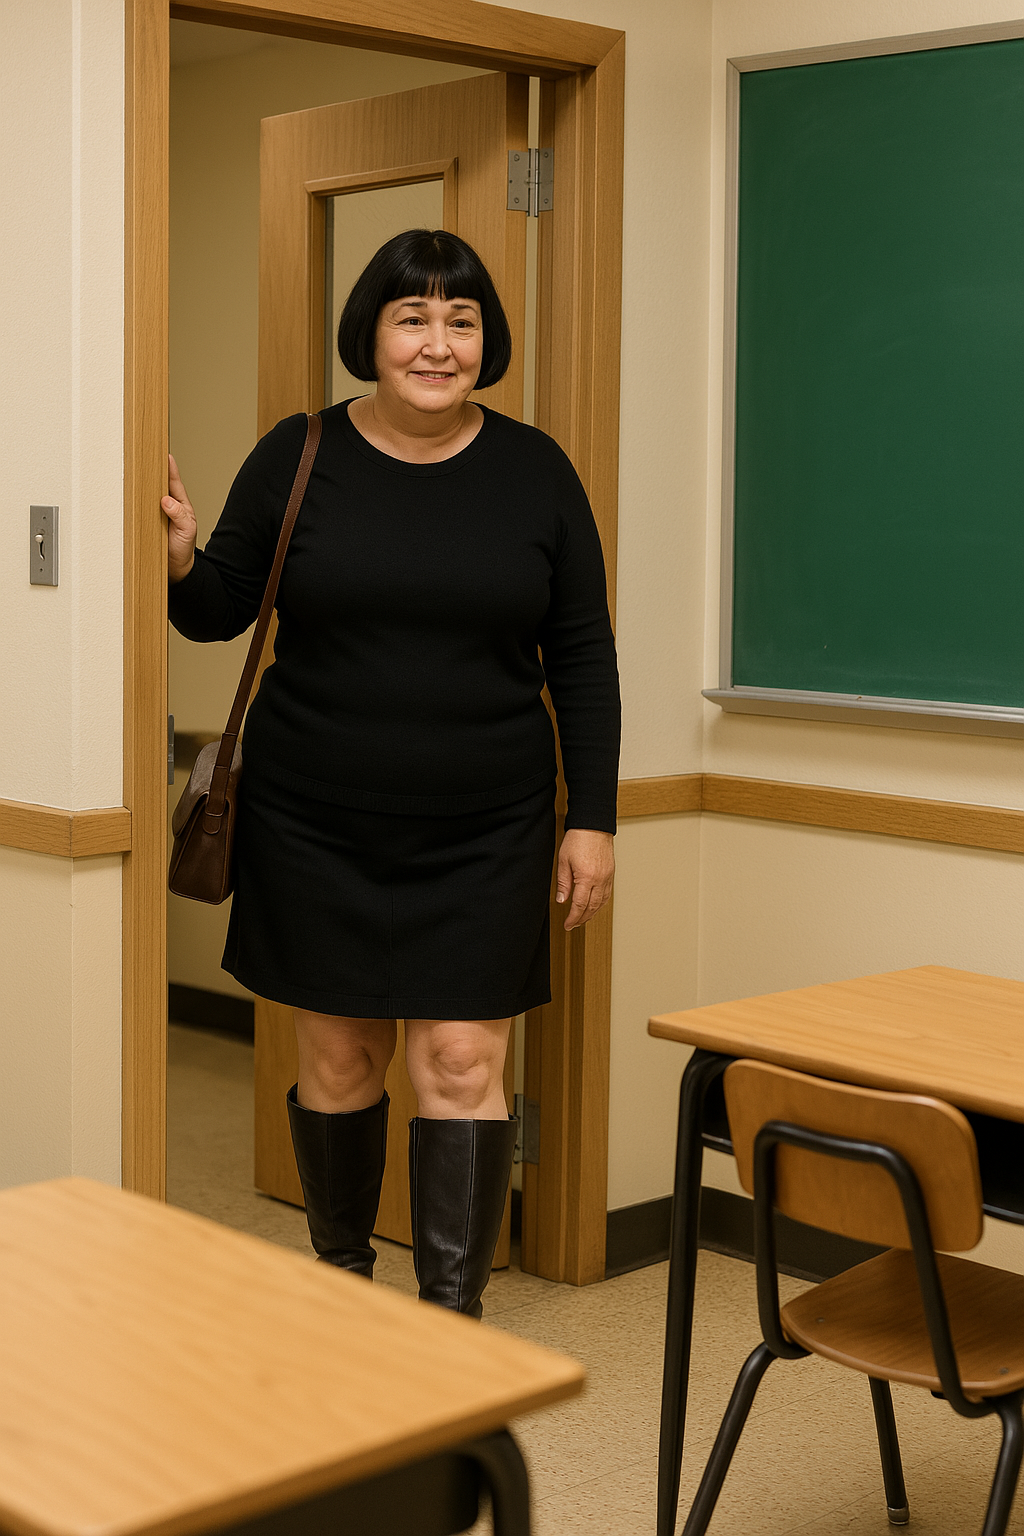
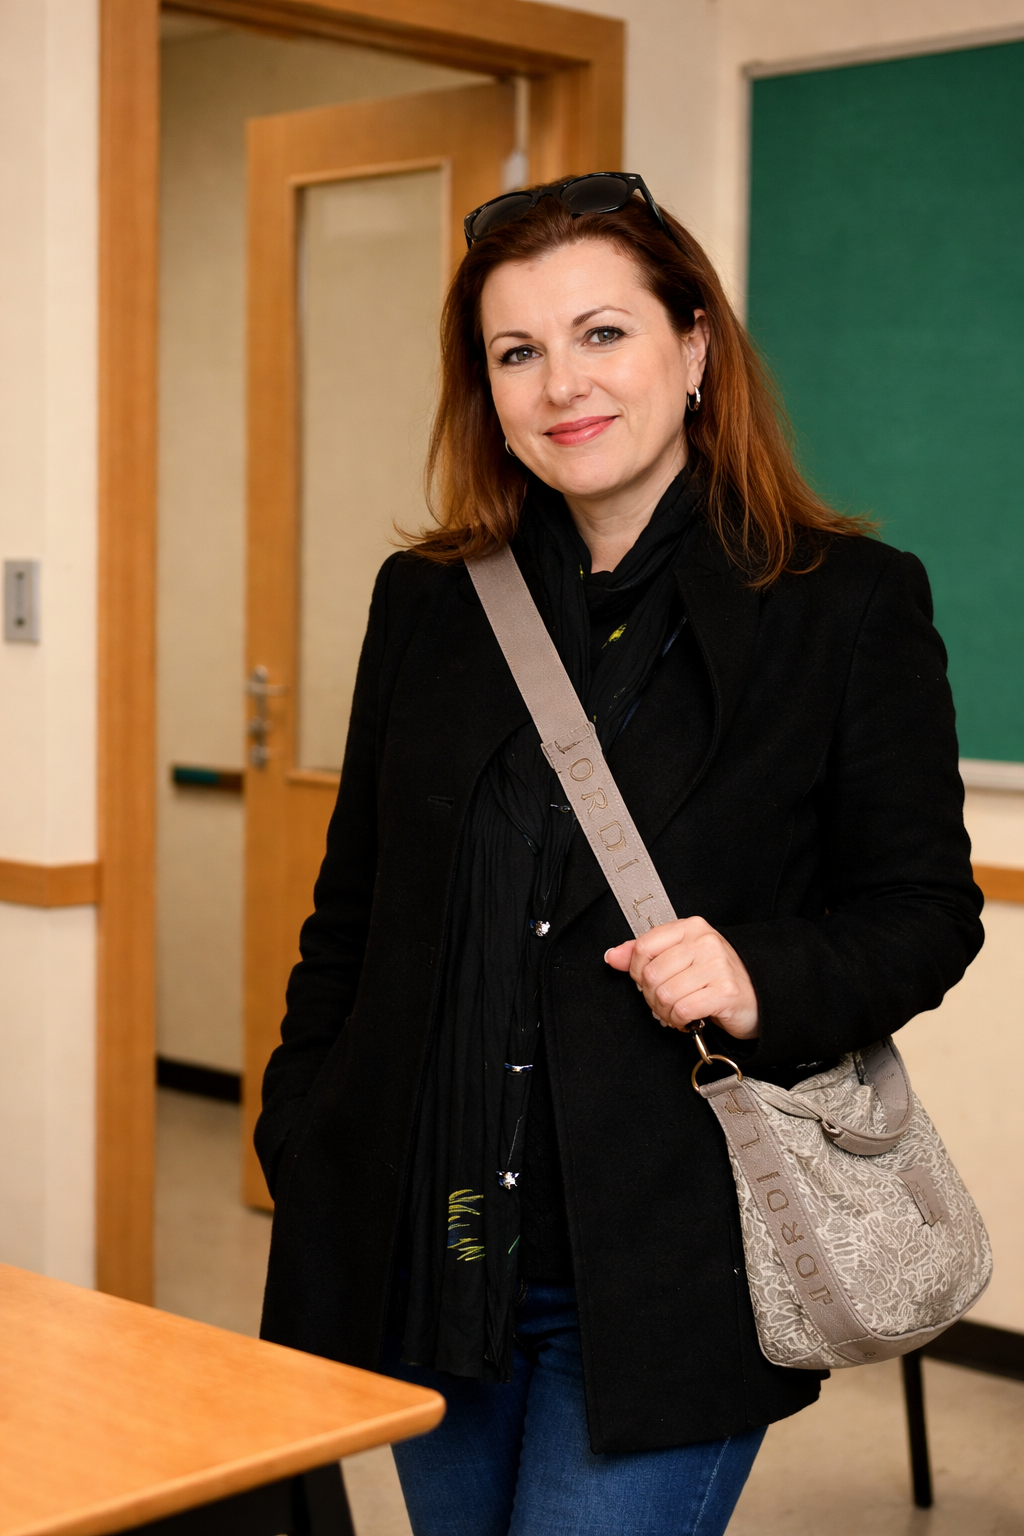
2008 further editorial

diff --git a/docs/timeline/2001-to-2010/2008.md b/docs/timeline/2001-to-2010/2008.md
@@ -403,15 +403,27 @@ function googleTranslateElementInit() {
 
 ## Lorraine Blackbourn
 
-### Lingualink and English Studio
-
-- I worked for Lorraine Blackbourn a lot when I lived in Dénia.
-
 ![Lorraine](../../content/images/lorraine.png)
 
-- Over the years 2007 to 2009, I worked for her at the [Lingualink academy (now Lingualogic)](https://lingualogic.es/en/) which she ran with a British expat couple.
-- Later, in 2012-15, I worked for her as part of her own English academy, [the English Studio](https://www.englishstudiodenia.com/), which is still running today and is managed by her trans-identified daughter.
-- Aside from that, I worked cash-in-hand for Lorraine whenever she needed me.
+### Lingualink and the English Studio
+
+- I worked with and for Lorraine Blackbourn when I lived in Dénia from 2008-2015.
+- I had worked in Madrid as an English teacher for a company called Hot English in 2005-2006 while I was living there, so when I moved to Dénia I reached out to the local academies there and was given part time work at Lingualink.
+- I first met Lorraine at the [Lingualink academy (now Lingualogic)](https://lingualogic.es/en/) which she ran with a British expat couple who lived in Moraira.
+- They had a spectacular falling out which might be interesting to find out about...
+- Lorraine then set up her own academy, [the English Studio](https://www.englishstudiodenia.com/), and I worked for her there in 2013-2015.
+- The company is still running today and is managed by her trans-identified daughter Jayden.
+- Jayden, I believe, was targeted online by Hazel Smith's enterprise in 2012 or even earlier; arguably one of the first kids to have been manipulated in this way.
+- Lorraine was devastated about what was happening to her daughter in 2013, as you can imagine.
+- I wonder if Hazel singled out Lorraine's daughter due to personal differences and the fact that Lorraine might not have been entirely fooled by her.
+- I believe, like [Alessandra's bone marrow transplant](../early-years/2009.md#alessandra-gets-sick), the main intention behind the manipulated transing of Lorraine's daughter was demonstration purposes.
+- The parallels between Jayden and Alessandra are remarkable.
+- I believe the criminal gangs wanted to demonstrate to the caliphate the power they had over young English-speaking minds and how better to do that than to convince them they were *born in the wrong body* and that life-changing surgery was necessary.
+- Look what happened to that lie once it took off!
+- I considered Lorraine a friend and, even though she was somehow warned off me in 2015 as I was being sedated and raped in my apartment in Joan Fuster, I still consider her a friend and I am devastated that she committed suicide in 2021 just as I returned to Dénia after nearly five years.
+- Did Lorraine know what had been happening to me?
+- Was she likely to tell me if she saw me back in the town?
+- Is this why they bumped her off (manipulated her into committing suicide)?
 
 ### Grupo Glorieta 
 